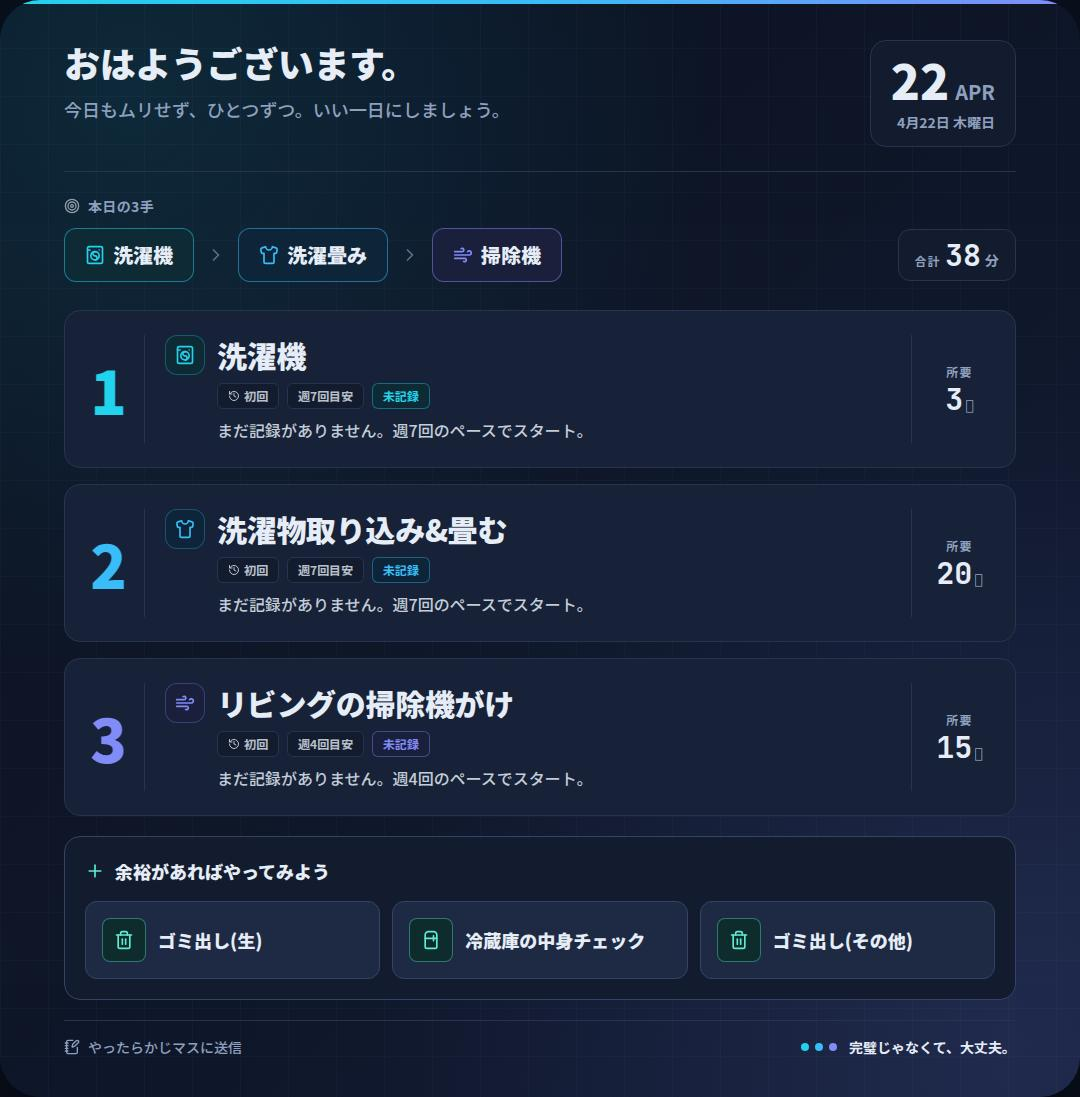
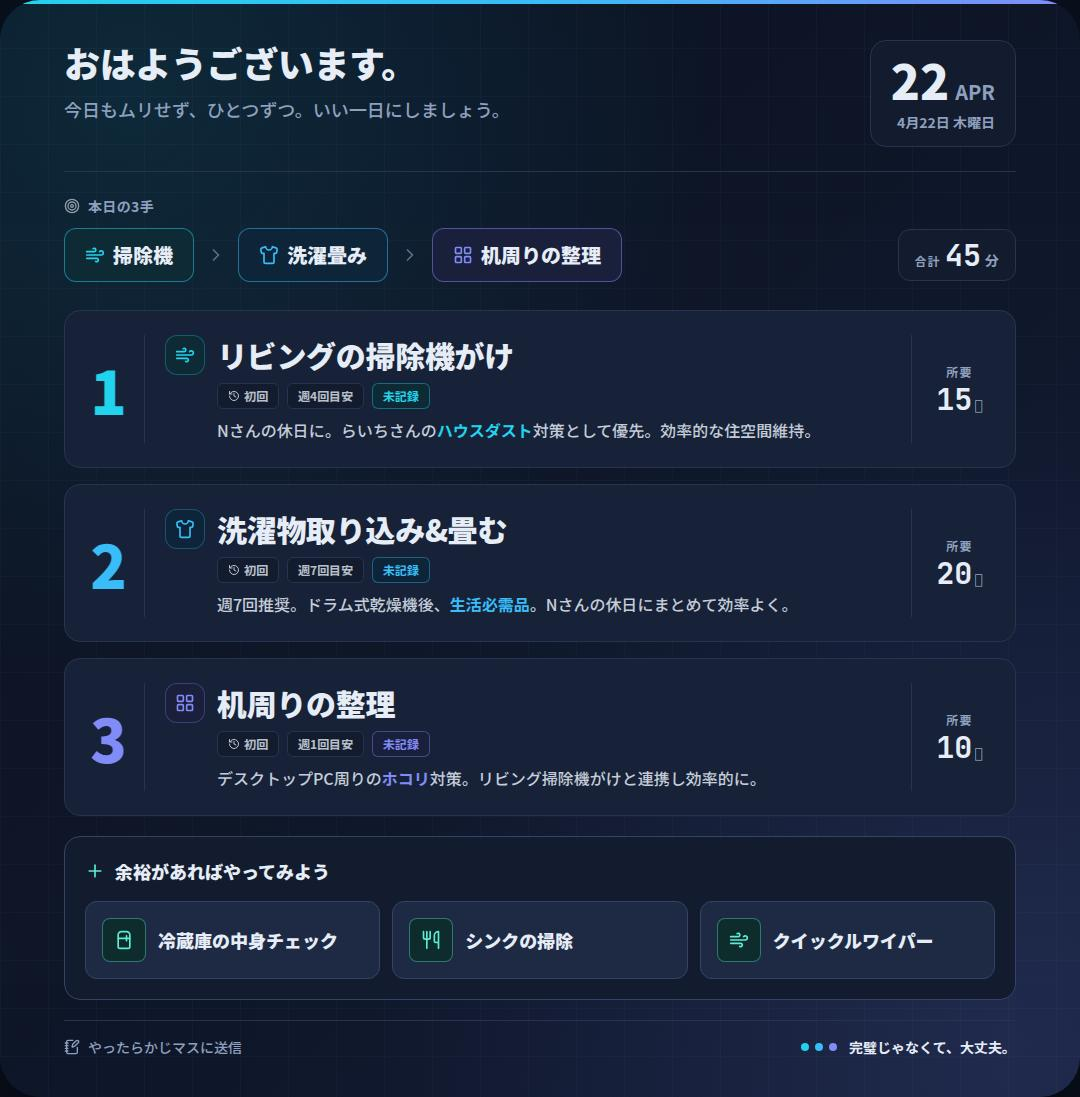
chore: dashboard 2026-04-23T02:58Z

diff --git a/output/latest.html b/output/latest.html
@@ -74,8 +74,8 @@
           </div>
           <div class="flex items-center gap-3">
               <span class="inline-flex items-center gap-2 px-5 py-3 rounded-xl bg-cyanbg border border-cyan1/50">
-                <i aria-hidden="true" data-lucide="washing-machine" class="w-5 h-5 text-cyan1"></i>
-                <span class="text-xl font-black text-ink">洗濯機</span>
+                <i aria-hidden="true" data-lucide="wind" class="w-5 h-5 text-cyan1"></i>
+                <span class="text-xl font-black text-ink">掃除機</span>
               </span>
               <i aria-hidden="true" data-lucide="chevron-right" class="w-5 h-5 text-dim flex-shrink-0"></i>
               <span class="inline-flex items-center gap-2 px-5 py-3 rounded-xl bg-skybg border border-sky1/50">
@@ -84,12 +84,12 @@
               </span>
               <i aria-hidden="true" data-lucide="chevron-right" class="w-5 h-5 text-dim flex-shrink-0"></i>
               <span class="inline-flex items-center gap-2 px-5 py-3 rounded-xl bg-indibg border border-indi1/50">
-                <i aria-hidden="true" data-lucide="wind" class="w-5 h-5 text-indi1"></i>
-                <span class="text-xl font-black text-ink">掃除機</span>
+                <i aria-hidden="true" data-lucide="layout-grid" class="w-5 h-5 text-indi1"></i>
+                <span class="text-xl font-black text-ink">机周りの整理</span>
               </span>
             <span class="ml-auto inline-flex items-baseline gap-1 px-4 py-2.5 rounded-xl bg-plate border border-line">
               <span class="text-xs font-bold text-muted tracking-widest">合計</span>
-              <span class="font-mono text-3xl font-black text-ink leading-none">38</span>
+              <span class="font-mono text-3xl font-black text-ink leading-none">45</span>
               <span class="text-sm font-bold text-muted">分</span>
             </span>
           </div>
@@ -104,26 +104,26 @@
             <div class="flex-1 min-w-0">
               <div class="flex items-center gap-3 mb-2">
                 <div class="w-10 h-10 rounded-xl bg-cyanbg border border-cyan1/30 flex items-center justify-center">
-                  <i aria-hidden="true" data-lucide="washing-machine" class="w-5 h-5 text-cyan1"></i>
+                  <i aria-hidden="true" data-lucide="wind" class="w-5 h-5 text-cyan1"></i>
                 </div>
-                <h3 class="text-3xl font-black text-ink tracking-tightish">洗濯機</h3>
+                <h3 class="text-3xl font-black text-ink tracking-tightish">リビングの掃除機がけ</h3>
               </div>
               <div class="flex items-center gap-2 mb-2 pl-[3.25rem]">
                 <span class="inline-flex items-center gap-1 px-2.5 py-1 rounded-md bg-plate border border-line text-xs font-bold text-ink/80">
                   <i aria-hidden="true" data-lucide="history" class="w-3 h-3"></i> 初回
                 </span>
                 <span class="inline-flex items-center gap-1 px-2.5 py-1 rounded-md bg-plate border border-line text-xs font-bold text-ink/80">
-                  週7回目安
+                  週4回目安
                 </span>
                 <span class="inline-flex items-center gap-1 px-2.5 py-1 rounded-md bg-cyanbg border border-cyan1/40 text-xs font-bold text-cyan1">
                   未記録
                 </span>
               </div>
-              <p class="text-base font-medium text-ink/85 leading-relaxed pl-[3.25rem]">まだ記録がありません。週7回のペースでスタート。</p>
+              <p class="text-base font-medium text-ink/85 leading-relaxed pl-[3.25rem]">Nさんの休日に。らいちさんの<span class="font-bold text-cyan1">ハウスダスト</span>対策として優先。効率的な住空間維持。</p>
             </div>
             <div class="flex-shrink-0 w-20 flex flex-col items-center justify-center gap-1 border-l border-line pl-4">
               <span class="text-xs font-bold text-muted tracking-widest">所要</span>
-              <span class="font-mono text-3xl font-black text-ink leading-none">3<span class="text-sm font-bold text-muted ml-0.5">分</span></span>
+              <span class="font-mono text-3xl font-black text-ink leading-none">15<span class="text-sm font-bold text-muted ml-0.5">分</span></span>
             </div>
           </article>
           <article class="flex items-stretch gap-5 p-6 rounded-2xl bg-card border border-line">
@@ -148,7 +148,7 @@
                   未記録
                 </span>
               </div>
-              <p class="text-base font-medium text-ink/85 leading-relaxed pl-[3.25rem]">まだ記録がありません。週7回のペースでスタート。</p>
+              <p class="text-base font-medium text-ink/85 leading-relaxed pl-[3.25rem]">週7回推奨。ドラム式乾燥機後、<span class="font-bold text-sky1">生活必需品</span>。Nさんの休日にまとめて効率よく。</p>
             </div>
             <div class="flex-shrink-0 w-20 flex flex-col items-center justify-center gap-1 border-l border-line pl-4">
               <span class="text-xs font-bold text-muted tracking-widest">所要</span>
@@ -162,26 +162,26 @@
             <div class="flex-1 min-w-0">
               <div class="flex items-center gap-3 mb-2">
                 <div class="w-10 h-10 rounded-xl bg-indibg border border-indi1/30 flex items-center justify-center">
-                  <i aria-hidden="true" data-lucide="wind" class="w-5 h-5 text-indi1"></i>
+                  <i aria-hidden="true" data-lucide="layout-grid" class="w-5 h-5 text-indi1"></i>
                 </div>
-                <h3 class="text-3xl font-black text-ink tracking-tightish">リビングの掃除機がけ</h3>
+                <h3 class="text-3xl font-black text-ink tracking-tightish">机周りの整理</h3>
               </div>
               <div class="flex items-center gap-2 mb-2 pl-[3.25rem]">
                 <span class="inline-flex items-center gap-1 px-2.5 py-1 rounded-md bg-plate border border-line text-xs font-bold text-ink/80">
                   <i aria-hidden="true" data-lucide="history" class="w-3 h-3"></i> 初回
                 </span>
                 <span class="inline-flex items-center gap-1 px-2.5 py-1 rounded-md bg-plate border border-line text-xs font-bold text-ink/80">
-                  週4回目安
+                  週1回目安
                 </span>
                 <span class="inline-flex items-center gap-1 px-2.5 py-1 rounded-md bg-indibg border border-indi1/40 text-xs font-bold text-indi1">
                   未記録
                 </span>
               </div>
-              <p class="text-base font-medium text-ink/85 leading-relaxed pl-[3.25rem]">まだ記録がありません。週4回のペースでスタート。</p>
+              <p class="text-base font-medium text-ink/85 leading-relaxed pl-[3.25rem]">デスクトップPC周りの<span class="font-bold text-indi1">ホコリ</span>対策。リビング掃除機がけと連携し効率的に。</p>
             </div>
             <div class="flex-shrink-0 w-20 flex flex-col items-center justify-center gap-1 border-l border-line pl-4">
               <span class="text-xs font-bold text-muted tracking-widest">所要</span>
-              <span class="font-mono text-3xl font-black text-ink leading-none">15<span class="text-sm font-bold text-muted ml-0.5">分</span></span>
+              <span class="font-mono text-3xl font-black text-ink leading-none">10<span class="text-sm font-bold text-muted ml-0.5">分</span></span>
             </div>
           </article>
         </section>
@@ -196,21 +196,21 @@
             <div class="grid grid-cols-3 gap-3">
               <div class="flex items-center gap-3 p-4 rounded-xl bg-card2 border border-line2">
                 <div class="flex-shrink-0 w-11 h-11 rounded-lg bg-tealbg border border-teal1/40 flex items-center justify-center">
-                  <i aria-hidden="true" data-lucide="trash-2" class="w-5 h-5 text-teal1"></i>
-                </div>
-                <span class="text-lg font-black text-ink leading-snug">ゴミ出し(生)</span>
-              </div>
-              <div class="flex items-center gap-3 p-4 rounded-xl bg-card2 border border-line2">
-                <div class="flex-shrink-0 w-11 h-11 rounded-lg bg-tealbg border border-teal1/40 flex items-center justify-center">
                   <i aria-hidden="true" data-lucide="refrigerator" class="w-5 h-5 text-teal1"></i>
                 </div>
                 <span class="text-lg font-black text-ink leading-snug">冷蔵庫の中身チェック</span>
               </div>
               <div class="flex items-center gap-3 p-4 rounded-xl bg-card2 border border-line2">
                 <div class="flex-shrink-0 w-11 h-11 rounded-lg bg-tealbg border border-teal1/40 flex items-center justify-center">
-                  <i aria-hidden="true" data-lucide="trash-2" class="w-5 h-5 text-teal1"></i>
+                  <i aria-hidden="true" data-lucide="utensils" class="w-5 h-5 text-teal1"></i>
                 </div>
-                <span class="text-lg font-black text-ink leading-snug">ゴミ出し(その他)</span>
+                <span class="text-lg font-black text-ink leading-snug">シンクの掃除</span>
+              </div>
+              <div class="flex items-center gap-3 p-4 rounded-xl bg-card2 border border-line2">
+                <div class="flex-shrink-0 w-11 h-11 rounded-lg bg-tealbg border border-teal1/40 flex items-center justify-center">
+                  <i aria-hidden="true" data-lucide="wind" class="w-5 h-5 text-teal1"></i>
+                </div>
+                <span class="text-lg font-black text-ink leading-snug">クイックルワイパー</span>
               </div>
             </div>
           </div>
